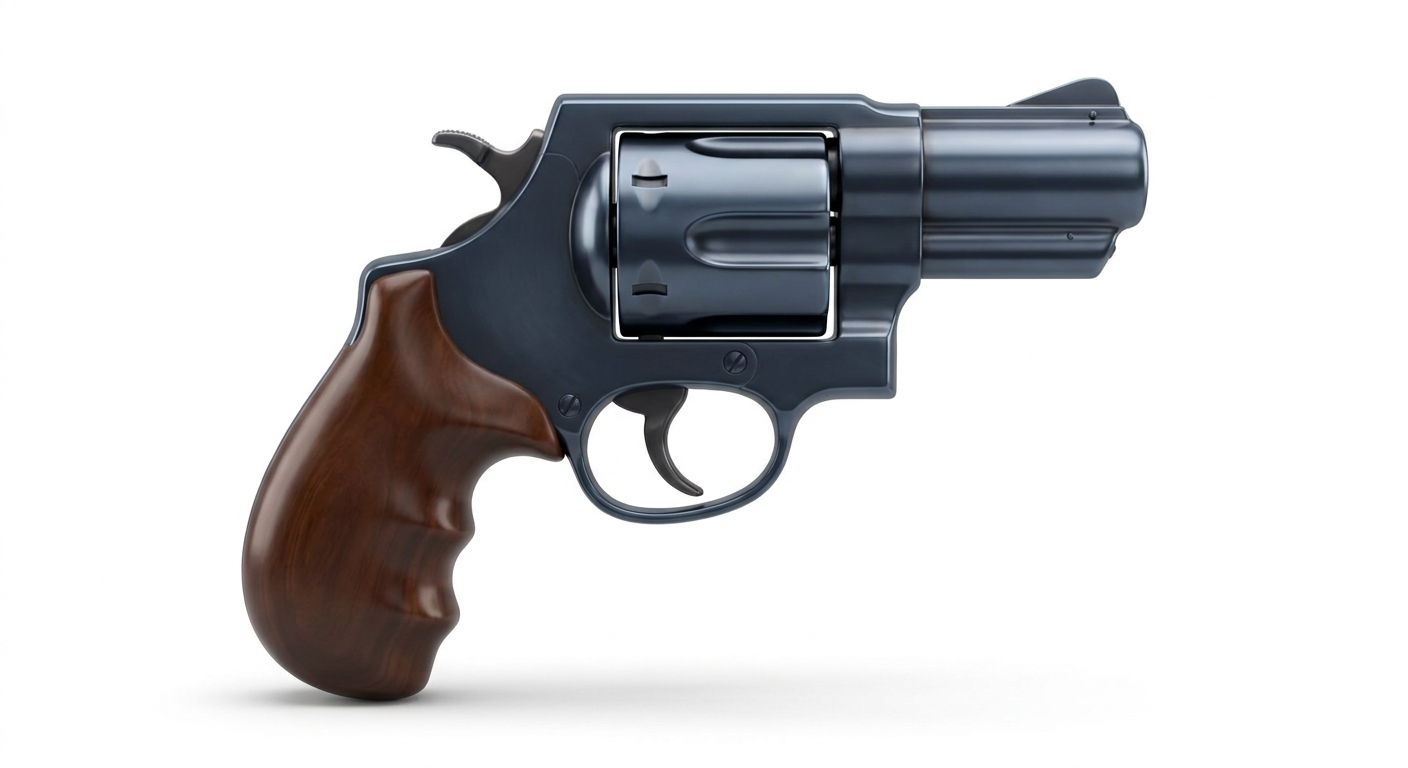
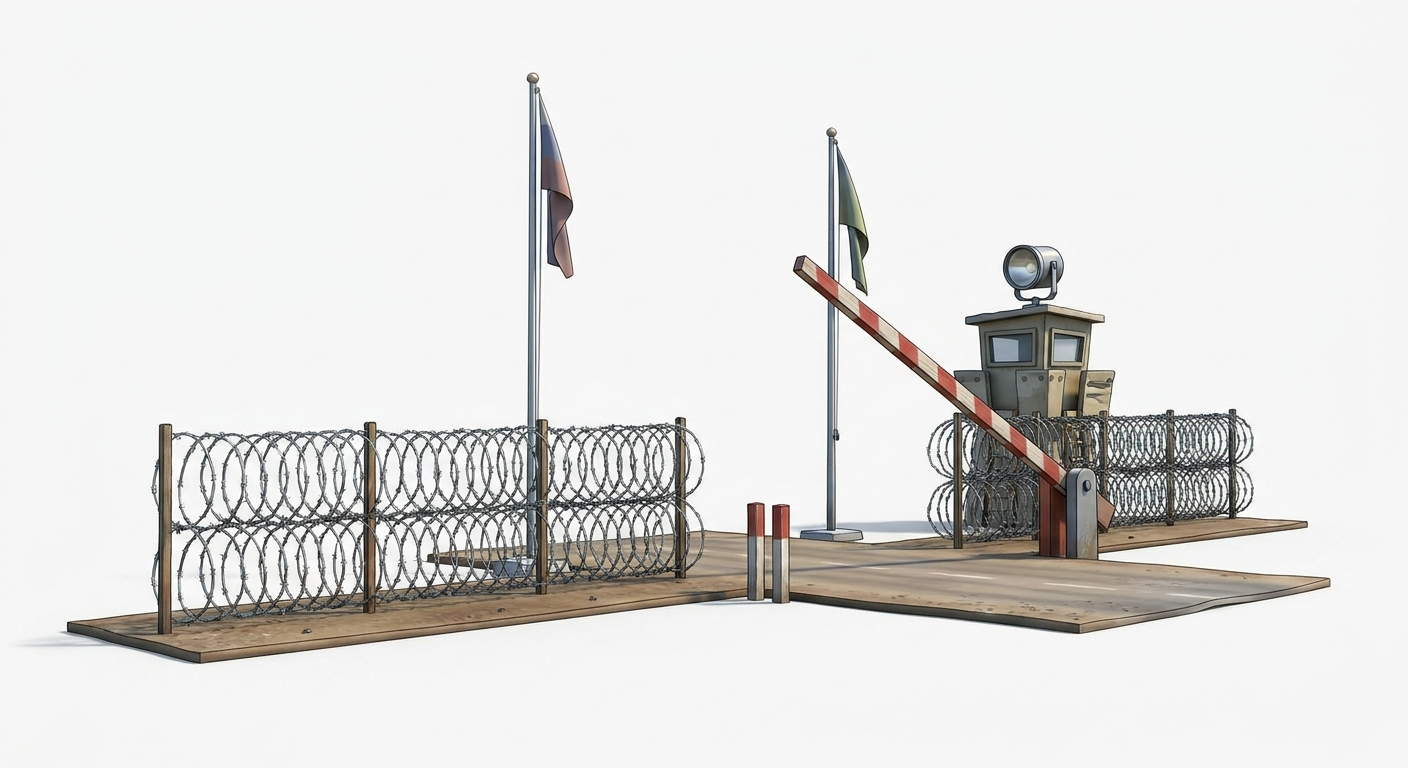
Byt 38 fran revolver till 38:e parallellen
Tre vapenkort (16, 45, 47) gjorde revolvern otydlig som krok. Gransen
i Korea ar en helt egen bildvarld och kan inte forvaxlas.

diff --git a/kort.js b/kort.js
@@ -39,7 +39,7 @@ const KORT = [
   { n: 35, namn: 'Film' },
   { n: 36, namn: 'Roulette' },
   { n: 37, namn: 'Sjuk med termometer' },
-  { n: 38, namn: 'Revolver .38' },
+  { n: 38, namn: '38:e parallellen' },
   { n: 39, namn: 'JAS 39 Gripen' },
   { n: 40, namn: 'Ali Baba & 40 rövare' },
   { n: 41, namn: 'Optimus Prime' },

diff --git a/att_generera.py b/att_generera.py
@@ -8,15 +8,13 @@ import urllib.error
 from generera_kort import generera
 
 KO = {
-    52: ('A wall calendar hanging open: a large spiral-bound calendar page '
-         'showing a full grid of numbered day squares, with a stack of '
-         'previous months curling behind it and a few days marked with red '
-         'circles. Clean and bold, instantly readable as a yearly wall '
-         'calendar.'),
-    72: ('A golfer in mid-swing on a green: crisp polo shirt, cap and glove, '
-         'club raised at the top of a powerful drive, a white golf ball on a '
-         'red tee in front of him with a small divot of grass flying. Bright '
-         'and dynamic, instantly readable as golf.'),
+    38: ('A tense border checkpoint between two countries: a long fence of '
+         'coiled barbed wire stretching across a bare strip of no-mans-land, '
+         'a striped red-and-white barrier pole lowered across the road, and '
+         'a small watchtower with a searchlight beside it. Two flagpoles '
+         'stand on either side of the line facing each other. Cold overcast '
+         'atmosphere, no soldiers or weapons visible — the divided border '
+         'line itself is the subject.'),
 }
 
 if __name__ == '__main__':
